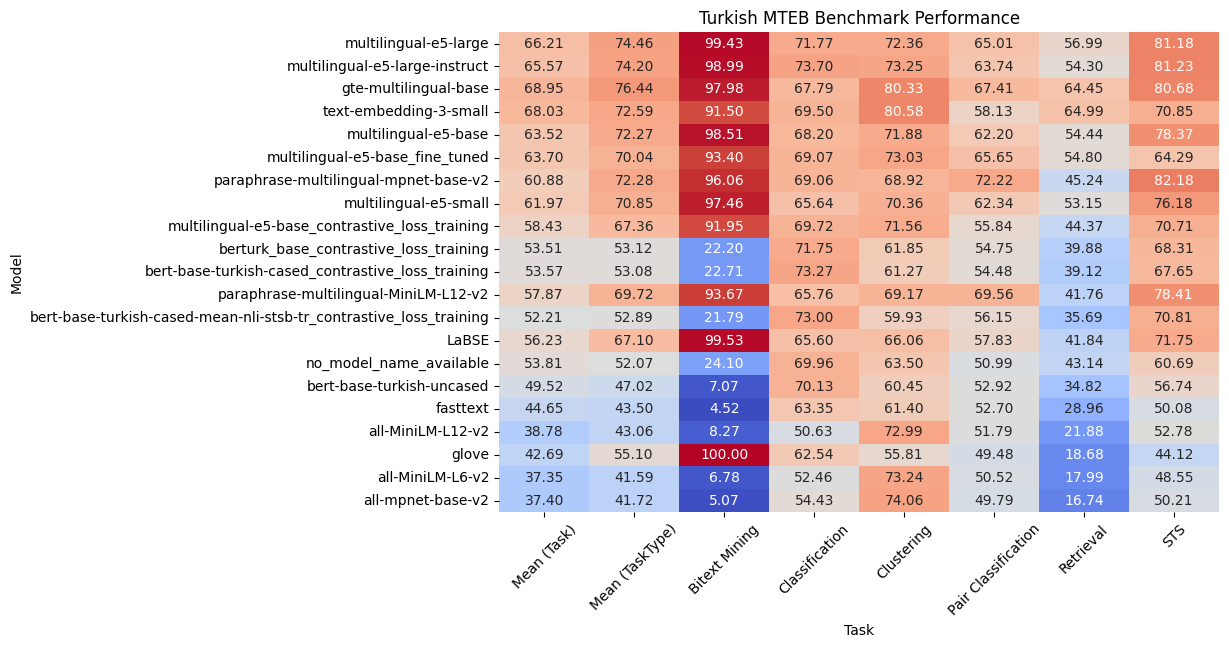
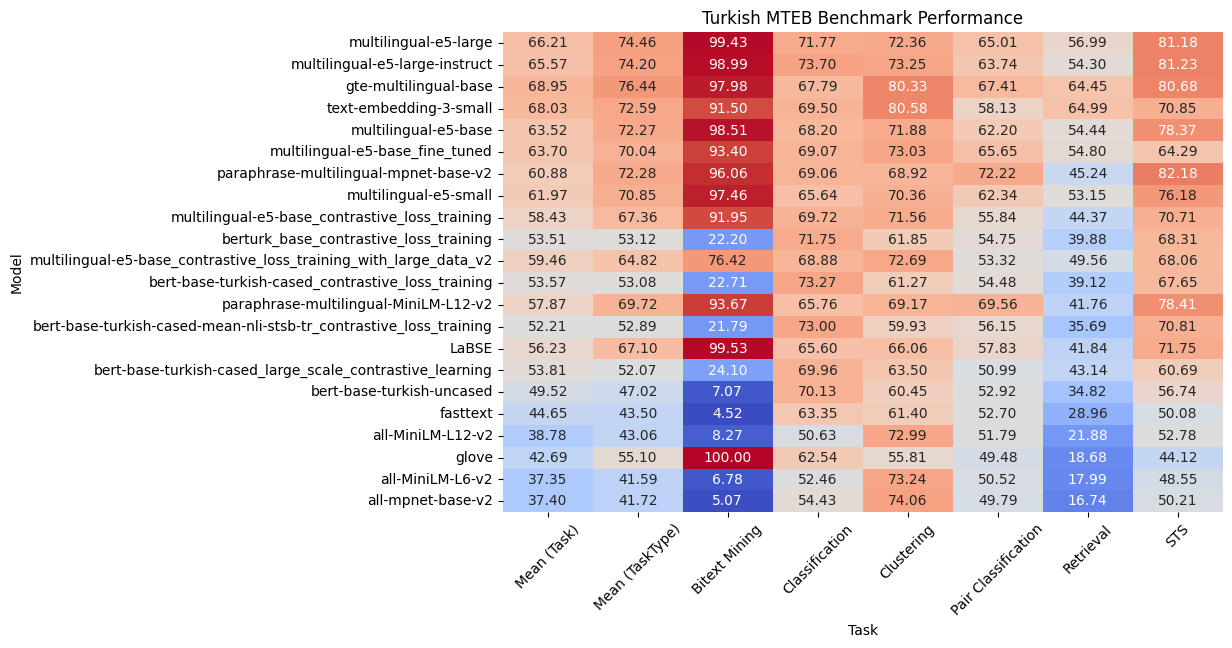
new benchmark tables and plots added

diff --git a/run_evaluation.py b/run_evaluation.py
@@ -21,7 +21,8 @@ def evaluate_model(model_name):
 models = [
     #'selmanbaysan/multilingual-e5-base_fine_tuned',
     #"dbmdz/bert-base-turkish-uncased",
-    "selmanbaysan/bert-base-turkish-cased_large_scale_contrastive_learning"
+    #"selmanbaysan/bert-base-turkish-cased_large_scale_contrastive_learning"
+    "selmanbaysan/multilingual-e5-base_contrastive_loss_training_with_large_data_v2",
 ]
 
 for model in models:
